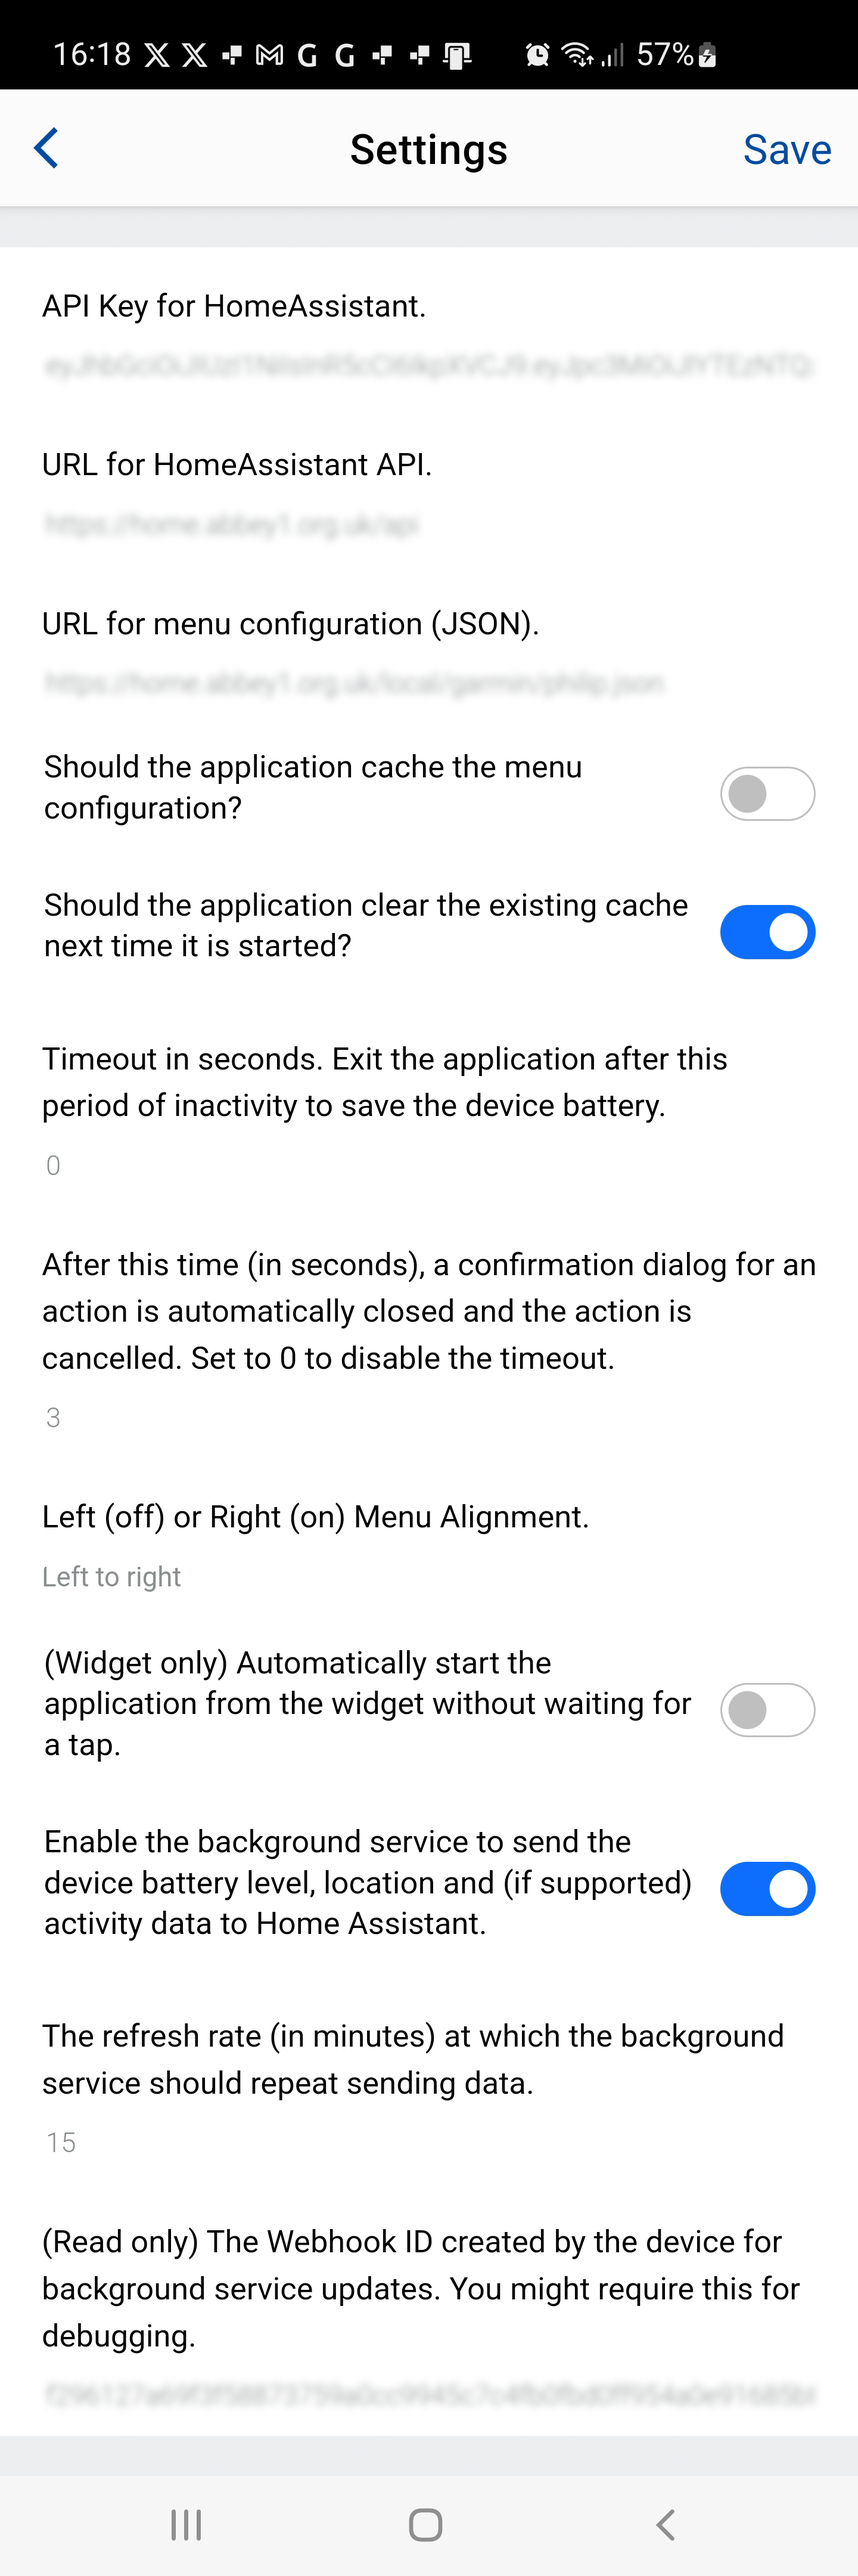
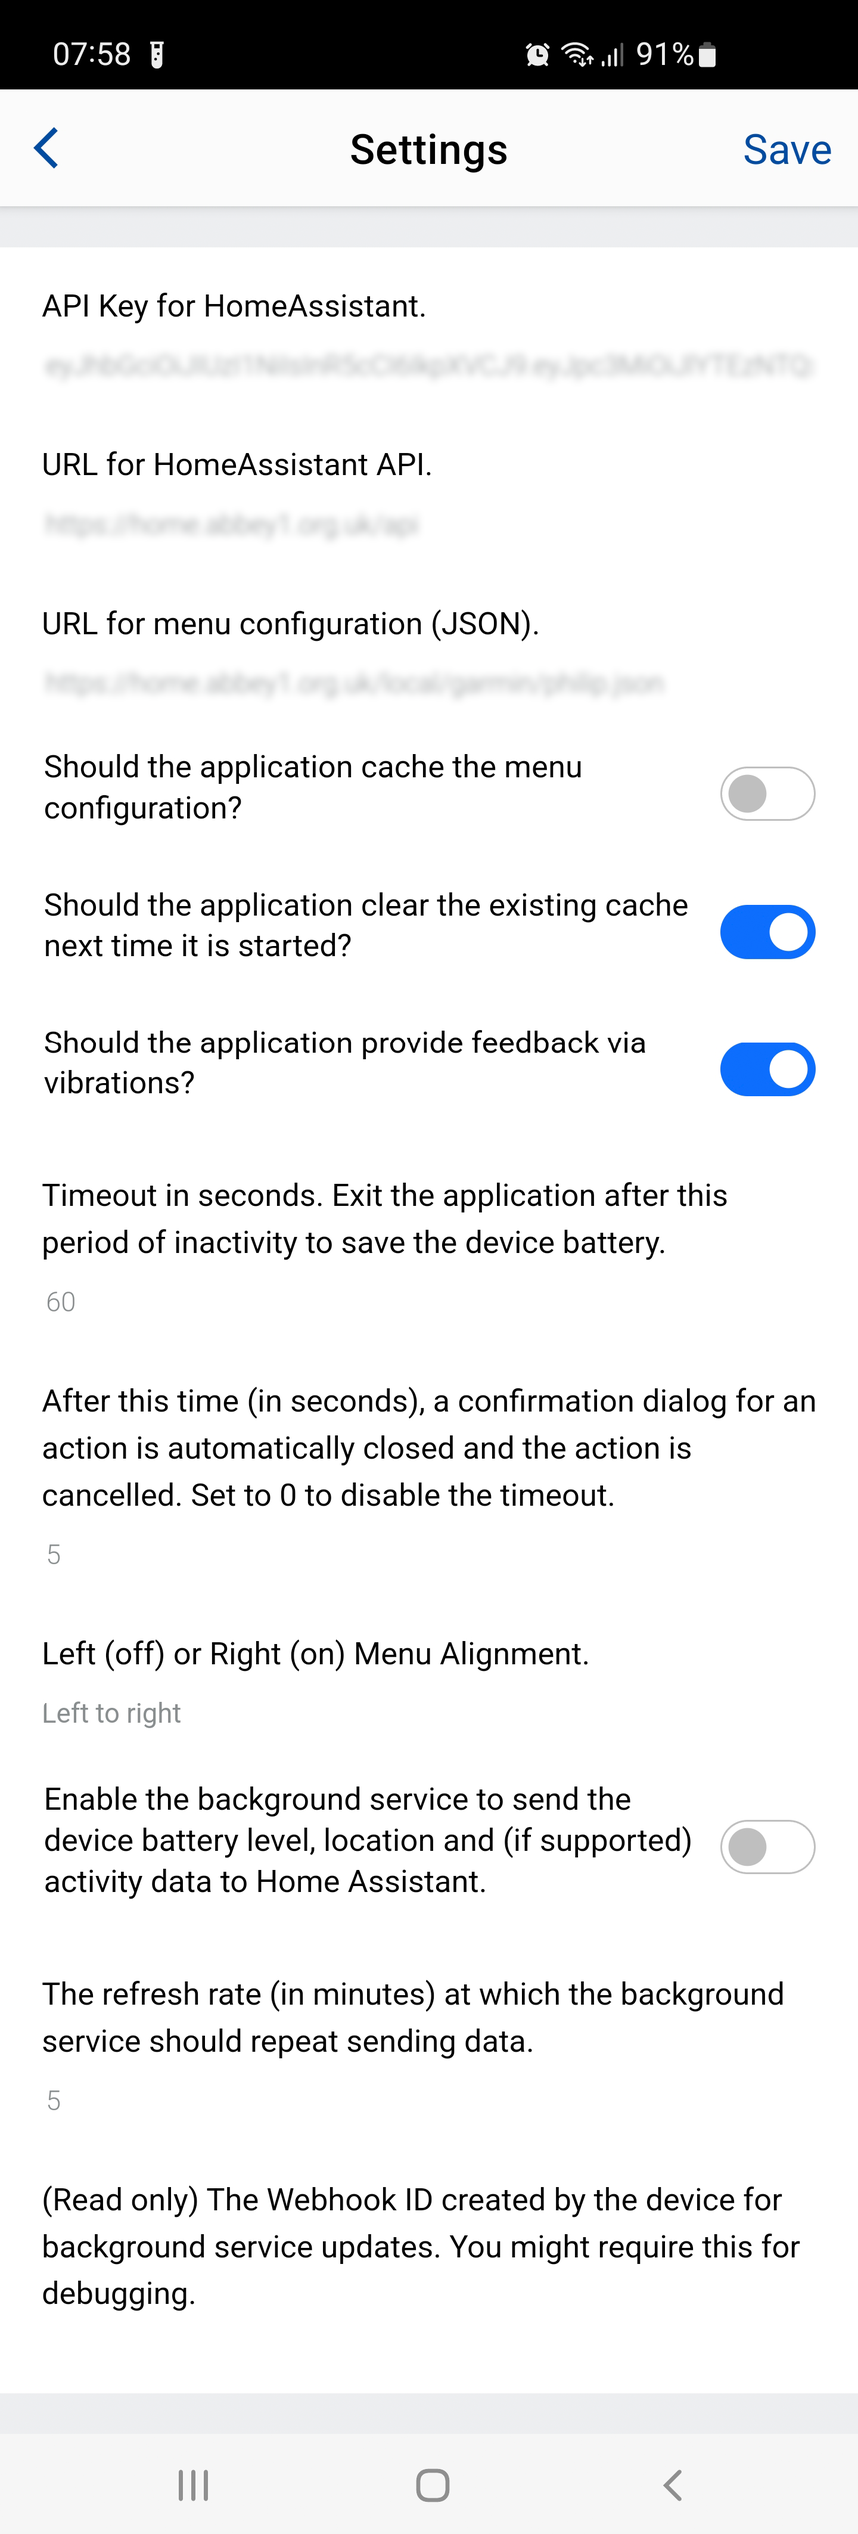
Documentation update

diff --git a/README.md b/README.md
@@ -238,11 +238,11 @@ You should now have a working application on your watch and be able to operate y
 
 You may choose to cache your menu definition on your device in order to reduce the delay in showing the menu (as it saves waiting for an HTTP GET request). If you use this option you are responsible for managing the cache when the menu is updated at source. The toggle option below the cache option allows you to choose to refresh the cache the next time the application starts. Once the cache has been cleared, the application will reset this toggle for you, so you do not need to return to the settings to amend it.
 
+The application uses vibration to confirm the action has been requested, as opposed to the 'toast' appears to show the action has been successfully executed. This is enabled by default but may be turned off if you do not desire this behaviour.
+
 The application timeout prevents the app running on your watch when you have forgotten to close it. It prevents the refreshing of the menu statuses and therefore excessive wear on your battery level. There is a second timeout value for confirmation views. This is intended for use with more sensitive toggles so that the confirmation view is not left open and forgotten and then confirmed accidentally without you noticing. **We cannot advise you this is safe, be careful what you toggle with the watch application!**
 
 There is a toggle setting for "text alignment" that provides finer adjustment for right-to-left languages. Perhaps this could be made automatic based on device language?
-
-Another toggle setting for the **Widget version only** allows the user to select a non-standard user interface behaviour. As soon as the menu is retrieved the widget view is replaced by the menu without waiting for a user selection. This has been included as requested by a user, but defaults to off which retains the expected user interactions.
 
 The application and widget both include a background service to report your watch's battery level and charging status. You may enable a background service to report the battery level to your Home Assistant. This is not available over your Bluetooth connection like with other Bluetooth devices as Garmin did not implement it. This no longer requires any setup, and we offer this [trouble shooting](TroubleShooting.md#watch-battery-level-reporting) guide. The last field here is readonly and allows the user to copy & paste the Webhook ID setup by the application when required for this trouble shooting guide.
 

diff --git a/HISTORY.md b/HISTORY.md
@@ -21,3 +21,4 @@
 |   2.6   | Added more information reporting to the background service, in addition to the device battery level and charging status, we now include location, location accuracy, and (if supported by your device) the activity information. Note the updates are sent periodically and are not event driven. |
 |   2.7   | Bug fix release: 1. Handling a settings change, 2. Avoid caching a bad menu, 3. Managing bad JSON in menu definitions. |
 |   2.8   | Separation release. The application and widget are no longer joined and now have separate source code repositories. The widget version is now in "maintenance only mode" hence will not receive new features, whilst the application version can now take advantage of not being constrained by the widget's memory limitation, which should allow new features to be added in the future. |
+|   2.9   | Added an option to enable confirmation vibration so it can be turned off by request of a user. Removed a redundant setting for the alternative Widget version that was not removed previously, and fixed a bug with dereferencing Null. |
